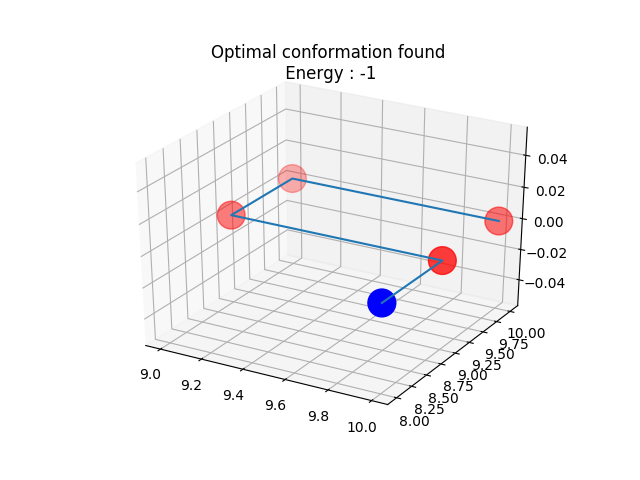
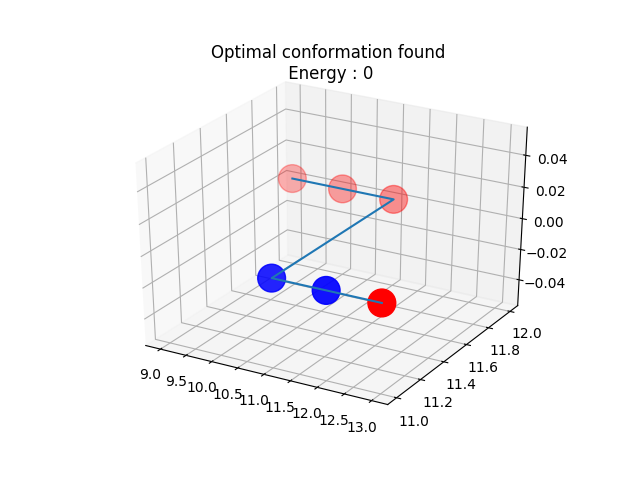
adjust function pull move

diff --git a/src/Pull_moves.py b/src/Pull_moves.py
@@ -7,87 +7,129 @@ class Pull_moves(Movement.Movement):
         A pull move can only proceed if C is either empty or occupied by residue i - 1.
     """
 
-    def mutation(self, structure_grid):
-        """ text
+    def __findNeighbourOccupied(self, structure_grid, j, idx, elmt, i):
+        """ Find if a neighbour of the first or last residues of sequence of 3 residues is occupied or not
+            in the next or previous column or next or previous line
+        """
+        second_residu = None
+        for offset in [1, -1]:
+            if i == 0:
+                if structure_grid[j][idx + offset] == elmt[j] + offset:
+                    a = elmt[j] + offset
+                    second_residu = elmt[j]
+                    return [a, second_residu]
+                elif structure_grid[j][idx - offset] == elmt[j] + offset:
+                    a = elmt[j] + offset
+                    second_residu = elmt[j]
+                    return [a, second_residu]
+                elif structure_grid[j+2][idx + offset] == elmt[j+2] + offset:
+                    a = elmt[j+2] + offset
+                    second_residu = elmt[j+2]
+                    return [a, second_residu]
+                elif structure_grid[j+2][idx - offset] == elmt[j+2] + offset:
+                    a = elmt[j+2] + offset
+                    second_residu = elmt[j+2]
+                    return [a, second_residu]
+                else:
+                    a = None
+                    return [a, second_residu]
+
+            else:
+                print(elmt[j+2] + offset)
+                print(structure_grid[idx + offset][j+2])
+                print(structure_grid[idx - offset][j+2])
+                if structure_grid[idx + offset][j] == elmt[j] + offset:
+                    # si le voisin se trouve sur la ligne au dessus de j, alors le second residu à bouger est j
+                    a = elmt[j] + offset
+                    second_residu = elmt[j]
+                    return [a, second_residu]
+                elif structure_grid[idx - offset][j] == elmt[j] + offset:
+                    a = elmt[j] + offset
+                    second_residu = elmt[j]
+                    return [a, second_residu]
+                elif structure_grid[idx + offset][j+2] == elmt[j+2] + offset:
+                    # si le voisin se trouve sur la ligne au dessus de j+2, alors le second residu à bouger est j+2
+                    a = elmt[+2j] + offset
+                    second_residu = elmt[j+2]
+                    return [a, second_residu]
+                elif structure_grid[idx - offset][j+2] == elmt[j+2] + offset:
+                    a = elmt[j+2] + offset
+                    second_residu = elmt[j+2]
+                    return [a, second_residu]
+                else:
+                    a = None
+                    return [a, second_residu]
+
+
+
+    def __checkNeighboursFree(self, structure_grid, a, j, second_residu, i):
+        """ Check if the 2 neighbours in the same line or column of residu a are free.
+            If so, the conformation is correct to do the pull move.
+        """
+        if i == 0:
+            if a.line == j:
+                if structure_grid[a.line + 1][a.column] == -1 and structure_grid[a.line + 2][a.column] == -1:
+                    # Les 2 emplacements vides, et le deuxieme residu à bouger
+                    return [{'line': a.line + 2, 'column': a.column}, {'line': a.line + 1, 'column': a.column}, second_residu - self.index]
+            else:
+                if structure_grid[a.line - 1][a.column] == -1 and structure_grid[a.line - 2][a.column] == -1:
+                    return [{'line': a.line - 2, 'column': a.column}, {'line': a.line - 1, 'column': a.column}, second_residu - self.index]
+        else:
+            if a.column == j:
+                if structure_grid[a.line][a.column + 1] == -1 and structure_grid[a.line][a.column + 2] == -1:
+                    # Les 2 emplacements vides, et le deuxieme residu à bouger
+                    return [{'line': a.line, 'column': a.column + 2}, {'line': a.line, 'column': a.column + 1}, second_residu - self.index]
+            else:
+                if structure_grid[a.line][a.column - 1] == -1 and structure_grid[a.line][a.column - 2] == -1:
+                    # Les 2 emplacements vides, et le deuxieme residu à bouger
+                    return [{'line': a.line, 'column': a.column - 2}, {'line': a.line, 'column': a.column - 1}, second_residu - self.index]
+        return None
+
+
+    def mutation(self, structure_grid, residues):
+        """ Check if the conformation is correct to do the pull move.
+            If so, return the 2 new positions in a list.
         """
         attribut = ["column", "line"]
         i = 0
         flag = False
-        while i <2 and flag = False:
+        while i < 2 and flag == False:
             idx = getattr(self.residu, attribut[i])
-            # C'est une liste de liste, donc on ne peut pas prendre de colonne directement
+            # It's a list which contains list, so it's not possible
+            # to reach a column directly
             if i == 0:
                 elmt = []
-                 for k in range(len(structure_grid)):
+                for k in range(len(structure_grid)):
                     elmt.append(structure_grid[k][idx])
             else:
                 elmt = structure_grid[idx]
-            # Parcourir l'élément entier jusqu'à trouver une case remplie
-            # A partir de là, on regarde si il a 2 voisins
-            # le 2 voisin devant être le résidu choisi aléatoirement
+            # Browse the entire element to find an occupied position
+            # Then, check if it has 2 neighbours occupied in the same line or column
+            # Moreover, the next neighbour must be the chosen residu
             for j in range(len(elmt)):
-                if elmt[j] != -1:
+                if elmt[j] != -1 and elmt[j] != 0:
                     if elmt[j+1] == self.index and elmt[j+2] != -1:
+                        print("coord", j, idx)
+                        print(elmt[j+1], elmt[j+2])
                         flag = True
+                        break
             i += 1
 
         if flag:
-            for offset in [1, -1]:
-                if i == 0:
-                    if structure_grid[j][idx + offset] == elmt[j] + offset:
-                        a = elmt[j] + offset
-                        second_residu = elmt[j]
-                    elif structure_grid[j][idx - offset] == elmt[j] + offset:
-                        a = elmt[j] + offset
-                        second_residu = elmt[j]
-                    elif structure_grid[j+2][idx + offset] == elmt[j] + offset:
-                        a = elmt[j] + offset
-                        second_residu = elmt[j+2]
-                    elif structure_grid[j+2][idx - offset] == elmt[j] + offset:
-                        a = elmt[j] + offset
-                        second_residu = elmt[j+2]
-                    else:
-                        a = None
+            # Check if the residu j has an occupied neighbour
+            a, second_residu = self.__findNeighbourOccupied(structure_grid, j, idx, elmt, i)
+            for l in structure_grid:
+                for m in l:
+                    print("{0:2d}".format(m), end='')
 
-                else:
-                    if structure_grid[idx + offset][j] == elmt[j] + offset:
-                        # si le voisin se trouve sur la ligne au dessus de j, alors le second residu à bouger est j
-                        a = elmt[j] + offset
-                        second_residu = elmt[j]
-                    elif structure_grid[idx - offset][j] == elmt[j] + offset:
-                        a = elmt[j] + offset
-                        second_residu = elmt[j]
-                    elif structure_grid[idx + offset][j+2] == elmt[j] + offset:
-                        # si le voisin se trouve sur la ligne au dessus de j+2, alors le second residu à bouger est j+2
-                        a = elmt[j] + offset
-                        second_residu = elmt[j+2]
-                    elif structure_grid[idx - offset][j+2] == elmt[j] + offset:
-                        a = elmt[j] + offset
-                        second_residu = elmt[j+2]
-                    else:
-                        a = None
-
-
-            if i == 0:
-                if a.line == j:
-                    if structure_grid[a.line + 1][a.column] == -1 and structure_grid[a.line + 2][a.column] == -1:
-                        # Les 2 emplacements vides, et le deuxieme residu à bouger
-                        return [{'line': a.line + 1, 'column': a.column}, {'line': a.line + 2, 'column': a.column}, second_residu]
-                else:
-                    if structure_grid[a.line - 1][a.column] == -1 and structure_grid[a.line - 2][a.column] == -1:
-                        return [{'line': a.line - 1, 'column': a.column}, {'line': a.line - 2, 'column': a.column}, second_residu]
-            else:
-                if a.column == j:
-                    if structure_grid[a.line][a.column + 1] == -1 and structure_grid[a.line][a.column + 2] == -1:
-                        # Les 2 emplacements vides, et le deuxieme residu à bouger
-                        return [{'line': a.line, 'column': a.column + 1}, {'line': a.line, 'column': a.column + 2}, second_residu]
-                else:
-                    if structure_grid[a.line][a.column - 1] == -1 and structure_grid[a.line][a.column - 2] == -1:
-                        # Les 2 emplacements vides, et le deuxieme residu à bouger
-                        return [{'line': a.line, 'column': a.column - 1}, {'line': a.line, 'column': a.column - 2}, second_residu]
+                print("")
+            if a is not None:
+                print(residues[a].line, residues[a].column)
+                # Check if residu a has 2 free neighbours
+                return self.__checkNeighboursFree(structure_grid, residues[a], j, second_residu, i)
 
         return None
-        
+
 
     def __init__(self, res, i):
         """ Initialize the object End_moves

diff --git a/src/conformation.py b/src/conformation.py
@@ -12,11 +12,12 @@ import Movement
 import End_moves
 import Corner_moves
 import Crankshaft_moves
+import Pull_moves
 
 
 def vshd_move(index, structure_grid, residues):
     """ Launch a VSHD movement according to the random residu.
-        Return a list with the new lattice and  the new residues object
+        Return a list with the new lattice and the new residues object
     """
     new_conformation = None
     # If the residu is the first or the last
@@ -47,30 +48,72 @@ def vshd_move(index, structure_grid, residues):
 # PULLMOVE SET
 
 
-def pullmoves_move(residu, structure_grid):
-    pull_moves(residu)
+def pullmoves_move(index, structure_grid, residues):
+    """ Launch a pull move movement according to the random residu.
+        Return a list with the new lattice and the new residues object
+    """
+    new_conformation = None
+    move = Pull_moves.Pull_moves(residues[index], index)
+    mutation_residu = move.mutation(structure_grid, residues)
+    if mutation_residu is not None:
+        new_conformation = move.changeTwoResidues(structure_grid, residues, mutation_residu)
+    if new_conformation is not None:
+        for i in structure_grid:
+            for j in i:
+                if j != -1:
+                    print("{0:2d}".format(j), end='')
+                else:
+                    print("  ", end='')
+            print("")
+
+        print("\nNEW : ")
+        for i in new_conformation[1]:
+            for j in i:
+                if j != -1:
+                    print("{0:2d}".format(j), end='')
+                else:
+                    print("  ", end='')
+            print("")
+    return new_conformation
 
 
 # MIXE SET
-def mixe_move(residu, structure_grid):
+def mixe_move(index, structure_grid, residues):
+    """ Launch a pull move movement or a VSHD move according to the random residu.
+        Return a list with the new lattice and the new residues object
+    """
+    new_conformation = None
     prob = random.random()
-    if residu == 0 or residu == (cA.LEN_SEQ - 1):
-        if prob <= 0.4:
-            # pull movement
-            endpull_moves(residu)
-        else:
-            # vshd movement
-            move = End_moves.End_moves(residues[index], index)
-            mutation_residu = move.mutation(structure_grid)
+    if index == 0 or index == (cA.LEN_SEQ - 1):
+        # if prob <= 0.4:
+        #     # pull movement
+        #     endpull_moves(residu)
+        # else:
+    # vshd movement
+        move = End_moves.End_moves(residues[index], index)
+        mutation_residu = move.mutation(structure_grid)
+        # The mutation is possible because a neighbour is free
+        if mutation_residu is not None:
+            new_conformation = move.changeOneResidu(
+                structure_grid, residues, mutation_residu)
     else:
         if prob <= 0.4:
             # pull movement
-            pull_moves(residu)
+            return pullmoves_move(index, structure_grid, residues)
         else:
             # vshd movement
             prob = random.random()
             if prob >= 0.5:
-                crankshaft_moves(residu)
+                move = Crankshaft_moves.Crankshaft_moves(residues[index], index)
+                mutation_residu = move.mutation(structure_grid)
+                if mutation_residu is not None:
+                    new_conformation = move.changeTwoResidues(
+                        structure_grid, residues, mutation_residu)
             else:
                 move = Corner_moves.Corner_moves(residues[index], index)
                 mutation_residu = move.mutation(structure_grid)
+                if mutation_residu is not None:
+                    new_conformation = move.changeOneResidu(
+                        structure_grid, residues, mutation_residu)
+
+    return new_conformation

diff --git a/src/main.py b/src/main.py
@@ -99,10 +99,10 @@ if __name__ == '__main__':
                 index, structure_grid, residues)
 
         elif cA.MOVE_SET == "PULLMOVES":
-            conformation.pullmoves_move(index, structure_grid)
+            new_conformation = conformation.pullmoves_move(index, structure_grid, residues)
 
         else:
-            conformation.mixe_move(index, structure_grid)
+            new_conformation = conformation.mixe_move(index, structure_grid, residues)
 
         # The movement is possible, the new energy is calculated
         if new_conformation is not None:
